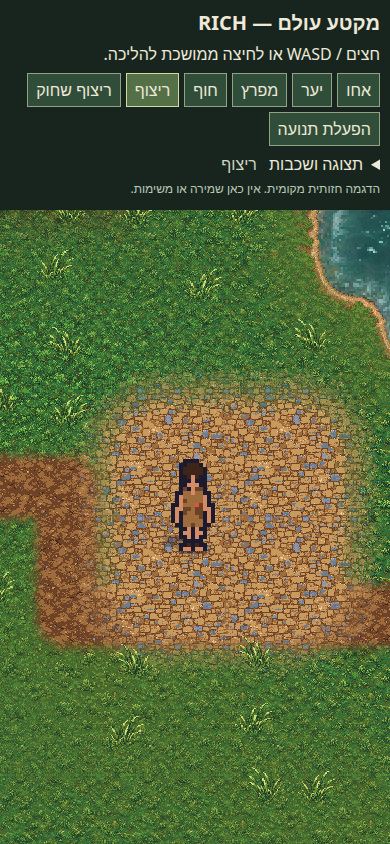
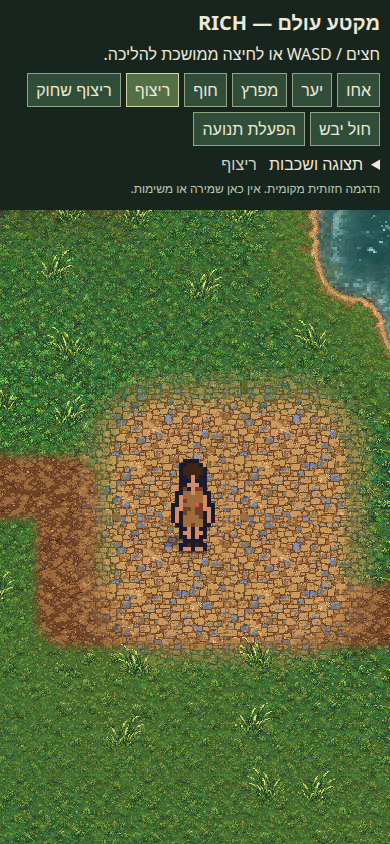
Preserve and reuse sand drafts in a connected dry ground clearing

diff --git a/tools/src/kit/import-world-ground-materials.ts b/tools/src/kit/import-world-ground-materials.ts
@@ -5,26 +5,33 @@ import { mkdirSync, readFileSync, writeFileSync } from 'node:fs';
 import { fileURLToPath } from 'node:url';
 import { PNG } from 'pngjs';
 import { importTile } from './gen.js';
+import { importSprite } from './import.js';
 import { paletteWithRamps } from './palette.js';
 import { reconcileStudyField, studyFieldEdgeMismatches } from './repeating-field.js';
 
 const folder = fileURLToPath(new URL('../../../docs/design/frames/rich-world-ground-2026-10-27/', import.meta.url));
 mkdirSync(folder, { recursive: true });
-const ramps = ['stone', 'moss', 'wood'];
-const palette = paletteWithRamps(ramps);
 const reports = [];
-for (const [name, original] of [['paving', 'city'], ['worn', 'ruins']]) {
-  const source = `../rich-world-2026-10-25/${original}-source.png`;
+const entries = [
+  { name: 'paving', source: '../rich-world-2026-10-25/city-source.png', ramps: ['stone', 'moss', 'wood'], originalPrompt: '../rich-world-2026-10-25/prompts.json:jobs[name=city]' },
+  { name: 'worn', source: '../rich-world-2026-10-25/ruins-source.png', ramps: ['stone', 'moss', 'wood'], originalPrompt: '../rich-world-2026-10-25/prompts.json:jobs[name=ruins]' },
+  { name: 'sand', source: 'sand-source.png', ramps: ['wood', 'stone'], originalPrompt: 'sand-source-manifest.jsonl:1' },
+];
+for (const { name, source, ramps, originalPrompt } of entries) {
+  const palette = paletteWithRamps(ramps);
   const bytes = readFileSync(`${folder}${source}`);
-  const imported = importTile(bytes, 128, 128, palette);
+  const imported = name === 'sand'
+    ? importSprite(bytes, { width: 128, height: 128, padding: 0, anchor: 'center', outline: false, dither: true, palette })
+    : importTile(bytes, 128, 128, palette);
   const field = PNG.sync.read(imported.png);
+  for (let at = 3; at < field.data.length; at += 4) if (field.data[at] !== 255) throw new Error(`Ground fill must be opaque: ${name}`);
   const before = studyFieldEdgeMismatches(field);
   reconcileStudyField(field, palette);
   const after = studyFieldEdgeMismatches(field);
   if (after.horizontal || after.vertical) throw new Error(`Material border mismatch: ${name}`);
   const output = PNG.sync.write(field);
   writeFileSync(`${folder}${name}.png`, output);
-  reports.push({ name, source, sourceSha256: createHash('sha256').update(bytes).digest('hex'), file: `${name}.png`, sha256: createHash('sha256').update(output).digest('hex'), ramps, field: [128, 128], sourceGrid: imported.logical, repeat: { borderBlendPixels: 8, before, after }, originalPrompt: `../rich-world-2026-10-25/prompts.json:jobs[name=${original}]` });
+  reports.push({ name, source, sourceSha256: createHash('sha256').update(bytes).digest('hex'), file: `${name}.png`, sha256: createHash('sha256').update(output).digest('hex'), ramps, field: [128, 128], sourceGrid: imported.logical, importer: name === 'sand' ? 'importSprite: existing ordered dither, no padding or outline' : 'importTile', repeat: { borderBlendPixels: 8, before, after }, originalPrompt });
 }
-writeFileSync(`${folder}imports.json`, `${JSON.stringify({ method: 'Existing importTile and palette, followed by the established border-strip reconciliation; no motif painting or crop shuffling.', reports }, null, 2)}\n`);
-console.log('Reused two ground fields; opposite-edge mismatches: 0.');
+writeFileSync(`${folder}imports.json`, `${JSON.stringify({ method: 'Existing importTile/importSprite and palette, followed by the established border-strip reconciliation; no motif painting or crop shuffling.', reports }, null, 2)}\n`);
+console.log(`Reused ${entries.length} ground fields; opposite-edge mismatches: 0.`);

diff --git a/game/src/world-study-ground.ts b/game/src/world-study-ground.ts
@@ -9,6 +9,7 @@ const plants = import.meta.glob('../../docs/design/frames/rich-shore-2026-10-25/
 import broadOakUrl from '../../docs/design/frames/rich-world-trees-2026-10-26/oak-broad.png?url';
 import pavingUrl from '../../docs/design/frames/rich-world-ground-2026-10-27/paving.png?url';
 import wornUrl from '../../docs/design/frames/rich-world-ground-2026-10-27/worn.png?url';
+import sandUrl from '../../docs/design/frames/rich-world-ground-2026-10-27/sand.png?url';
 const masks = [1, 2, 3, 4, 6, 7, 8, 9, 11, 12, 13, 14, 15];
 const clamp = (value: number) => Math.max(0, Math.min(1, value));
 const hash = (x: number, y: number) => (Math.imul(x + 23, 73856093) ^ Math.imul(y + 37, 19349663)) >>> 0;
@@ -18,6 +19,7 @@ export function preloadWorldStudyGround(scene: Phaser.Scene): void {
   scene.load.image(key('oak-broad'), broadOakUrl);
   scene.load.image(key('paving'), pavingUrl);
   scene.load.image(key('worn'), wornUrl);
+  scene.load.image(key('sand'), sandUrl);
   for (const name of ['meadow-a', 'meadow-b', 'meadow-c', 'path', 'woodland', 'oak']) {
     const entry = Object.entries(assets).find(([path]) => path.endsWith(`/${name}.png`));
     if (!entry) throw new Error(`Missing imported world material: ${name}`);
@@ -61,7 +63,8 @@ export function createWorldStudyGround(scene: Phaser.Scene) {
     return nearest;
   }));
   const soil = fields[3]!, forest = fields[4]!;
-  const paving = raster('paving'), worn = raster('worn');
+  const paving = raster('paving');
+  const surfaces = { forest, paving, worn: raster('worn'), sand: raster('sand') };
   const patches = worldStudyLayout.regions.filter(region => region.material !== 'forest');
   for (let y = 0; y < height; y++) for (let x = 0; x < width; x++) {
     const to = (y * width + x) * 4;
@@ -89,7 +92,7 @@ export function createWorldStudyGround(scene: Phaser.Scene) {
     for (const region of patches) {
       // Reject distant pixels before consulting rounded geometry or the imported stone/soil edge detail.
       if (x < region.x * TILE - 48 || y < region.y * TILE - 48 || x > (region.x + region.width) * TILE + 48 || y > (region.y + region.height) * TILE + 48) continue;
-      const field = region.material === 'paving' ? paving : worn;
+      const field = surfaces[region.material];
       const at = sampleOffset(field, x, y);
       const detail = (field.data[at]! + field.data[at + 1]! + field.data[at + 2]!) / 3;
       const edge = worldStudyRegionInset(region, x, y) + (detail - 100) * .16 + grain * .5;

diff --git a/game/test/world-study-layout.test.ts b/game/test/world-study-layout.test.ts
@@ -29,7 +29,7 @@ test('the coast uses supported shore pieces and every full land tile connects to
 });
 
 test('the added ground patches have rounded edges and reachable authored centres on land', () => {
-  for (const id of ['paving', 'worn'] as const) {
+  for (const id of ['paving', 'worn', 'sand'] as const) {
     const view = worldStudyLayout.viewpoints.find(p => p.id === id)!;
     expect(worldStudyMaterial((view.x + .5) * WORLD_TILE_SIZE, (view.y + .5) * WORLD_TILE_SIZE)).toBe(id);
     expect(worldStudyLandTile(view.x, view.y)).toBe(true);
@@ -43,6 +43,26 @@ test('the added ground patches have rounded edges and reachable authored centres
   for (let x = branch[0]!.x; x <= end.x; x += .125) {
     expect(worldStudyLandTile(Math.floor(x), branch[0]!.y)).toBe(true);
     expect(worldStudyPathDistance((x + .5) * WORLD_TILE_SIZE, (branch[0]!.y + .5) * WORLD_TILE_SIZE)).toBeLessThan(.001);
+  }
+});
+
+test('ground-study spurs join the existing route without a water crossing or a long straight run', () => {
+  const network = [...worldStudyLayout.path.points];
+  for (const branch of worldStudyLayout.path.branches ?? []) {
+    expect(branch.some(point => network.some(p => p.x === point.x && p.y === point.y))).toBe(true);
+    for (let i = 1; i < branch.length; i++) {
+      const a = branch[i - 1]!, b = branch[i]!;
+      const dx = b.x - a.x, dy = b.y - a.y;
+      expect((dx === 0) !== (dy === 0)).toBe(true);
+      const length = Math.abs(dx) + Math.abs(dy);
+      expect(length).toBeLessThanOrEqual(8);
+      for (let at = 0; at <= length * 8; at++) {
+        const x = a.x + .5 + dx * at / (length * 8), y = a.y + .5 + dy * at / (length * 8);
+        expect(worldStudyLandTile(Math.floor(x), Math.floor(y))).toBe(true);
+        expect(worldStudyPathDistance(x * WORLD_TILE_SIZE, y * WORLD_TILE_SIZE)).toBeLessThan(.001);
+      }
+    }
+    network.push(...branch);
   }
 });
 

diff --git a/game/src/world-study-layout.ts b/game/src/world-study-layout.ts
@@ -2,15 +2,15 @@ import layoutJson from '../../docs/design/frames/rich-world-expansion-2026-10-26
 
 /** This visual fixture uses art pixels directly; it is not a gameplay/kernel map. */
 export const WORLD_TILE_SIZE = 64;
-export type WorldStudyMaterial = 'meadow' | 'forest' | 'path' | 'paving' | 'worn';
+export type WorldStudyMaterial = 'meadow' | 'forest' | 'path' | 'paving' | 'worn' | 'sand';
 /** Integer tile indices. For spawn, viewpoints and path points, the location is the tile centre. */
 export interface WorldStudyPoint { x: number; y: number }
 export interface WorldStudyViewpoint extends WorldStudyPoint {
-  id: 'meadow' | 'forest' | 'cove' | 'shore' | 'paving' | 'worn';
+  id: 'meadow' | 'forest' | 'cove' | 'shore' | 'paving' | 'worn' | 'sand';
   label: string;
 }
 export interface WorldStudyRegion extends WorldStudyPoint {
-  material: 'forest' | 'paving' | 'worn';
+  material: 'forest' | 'paving' | 'worn' | 'sand';
   width: number;
   height: number;
 }

diff --git a/game/world-study.html b/game/world-study.html
@@ -36,6 +36,7 @@
       <button data-view="shore">חוף</button>
       <button data-view="paving">ריצוף</button>
       <button data-view="worn">ריצוף שחוק</button>
+      <button data-view="sand">חול יבש</button>
       <button id="motion" aria-pressed="true">עצירת תנועה</button>
     </nav>
     <details>

diff --git a/docs/design/frames/rich-world-ground-2026-10-27/README.md b/docs/design/frames/rich-world-ground-2026-10-27/README.md
@@ -4,13 +4,13 @@ Continues the approved RICH world and tree collision checkpoint (`5e4d6569`) in 
 
 ## Built
 
-Two existing ground fields become a warm paved clearing and a worn stone clearing inside the existing navigable sample. A three-tile spur joins the worn area to the main path. Two new view buttons jump to the ground patches. The original meadow, woodland, path, gravel banks and water remain present. No production map, quests, NPCs, rewards or story are added.
+Three existing ground fields become a warm paved clearing, a worn stone clearing and a quiet inland sand patch inside the existing navigable sample. A three-tile spur joins the worn area to the main path; a four-tile branch continues south to the sand. Three new view buttons jump to the added ground patches. The original meadow, woodland, path, gravel banks and water remain present. No production map, quests, NPCs, rewards or story are added.
 
 The world layout declares material regions. Rounded patch contours and the imported texture's own detail drive a four-step transition into surrounding ground. Stone patches take priority over the path inside them, so the route arrives at the paving instead of painting an earth stripe over it. Tall grass is omitted from the paving interiors. Land and collision masks remain independent of material colour.
 
 ## Reuse and repetition
 
-`reuse-review.json` records exact existing sources, hashes, original prompts and agent choices separately from owner approval. `paving.png` and `worn.png` are reproducible derivatives of already committed raw fields. Run `pnpm exec tsx tools/src/kit/import-world-ground-materials.ts` to reimport. The original source files remain untouched in `../rich-world-2026-10-25/`.
+`reuse-review.json` records exact existing sources, hashes, original prompts and agent choices separately from owner approval. `paving.png` and `worn.png` are reproducible derivatives of already committed raw fields. `sand-source.png` is an exact preserved raw draft from the earlier tile work, with its old64px derivative and successful generation record beside it; `sand.png` uses the existing importer with ordered dithering to preserve more of its subtle tone changes. Run `pnpm exec tsx tools/src/kit/import-world-ground-materials.ts` to reimport. The original paving and worn source files remain untouched in `../rich-world-2026-10-25/`.
 
 Whole 128px fields stay registered. Only the opposite eight-pixel border strips are reconciled and palette-snapped, using the same helper as the earlier ground importer. A reflected-repeat trial was discarded after browser inspection because it made the worn stone too symmetrical. No new images or organic motifs were generated or drawn in code. The old five-field/tree importer was rerun after extracting the helper; its tracked image/report outputs did not change.
 
@@ -19,3 +19,9 @@ Whole 128px fields stay registered. Only the opposite eight-pixel border strips 
 Desktop and phone captures are beside this file. Use the `ריצוף` and `ריצוף שחוק` buttons at http://127.0.0.1:5189/world-study.html. These are ground material tests, not finished designed places: buildings, architecture, terrain height, other shore families and general vegetation-library work retain their own later stages. The ground fields still repeat over larger distances; this iteration proves connected material patches and seam handling, not an endless finished biome.
 
 Checks are recorded in `review.json`. Visual acceptance of these added ground materials remains with the owner.
+
+## Sand follow-up
+
+The quiet inland sand patch uses an already-generated raw source from `art/tiles-64`, preserving its original bytes and manifest here. It is not a new beach family: the approved shoreline atlas and wave renderer were not replaced. The importer checks an opaque fill and zero border mismatches. The standard tile vote flattened much of the source contrast; the existing `importSprite` ordered dither retains ten palette colours in the study. The source still has subtler sand relief than the style goal; further sand relief is a named polish gap, not a claim of finished terrain. No new image calls were made.
+
+A browser flood fill over the actual land and tree-footprint query reached 23,230 feet positions and all seven review viewpoints from the spawn. The phone navigation was tapped through the browser and checked for horizontal overflow.
